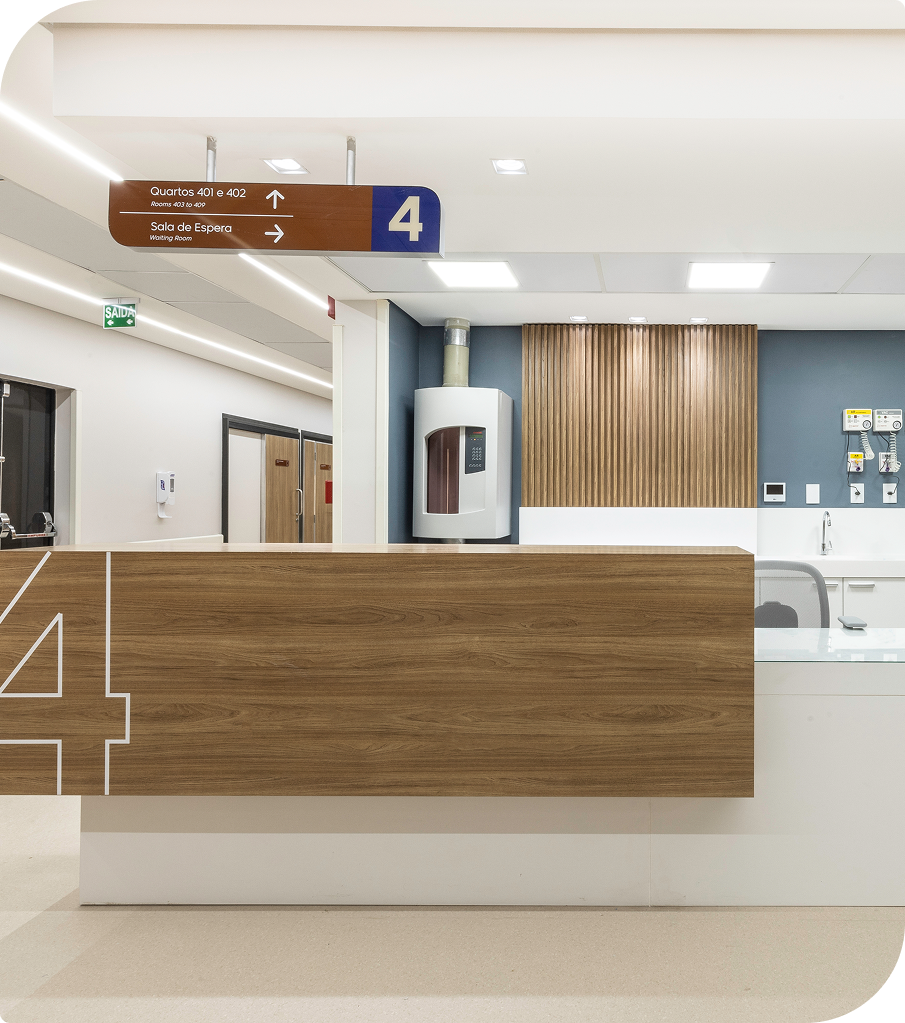
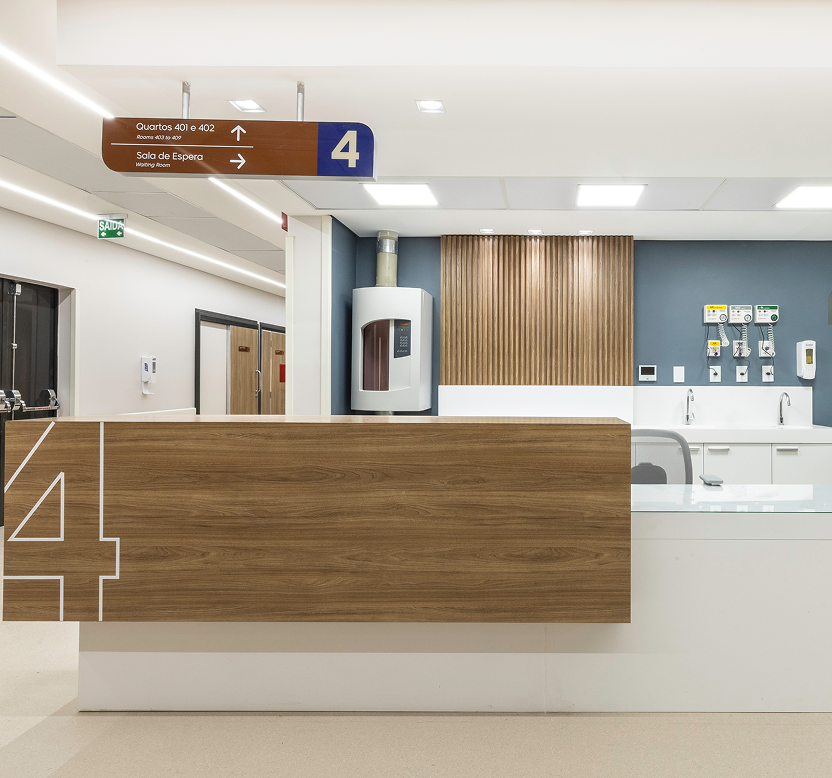
home & footer

diff --git a/styles.css b/styles.css
@@ -9,6 +9,7 @@
     --textColorClear:#FFFFFF;
     --titleSize: 2.5rem;
     --textSize: 1.2rem;
+    --textFooterSize: 0.8rem;
     --titleWeight: 400;
     --textWeight: 300;
     --btnFontSize: 1.5rem;
@@ -213,14 +214,12 @@ p {
 }
 
 
-
 .history-btn{
 
-    position:absolute;
-    top: 75rem;
-    left: 50%;
-    transform: translateX(-50%);
-
+    display: flex;
+    justify-content: center;
+    align-items: center;
+    margin: 3rem auto 0 auto;
     padding: 12px 24px;
     font-size: var(--btnFontSize);
     font-family: var(--titleFamily);
@@ -230,8 +229,6 @@ p {
     border-radius: 8px;
     cursor: pointer;
     text-decoration: none;
-
-    margin-top: 3rem;
     width: fit-content;
 
 }
@@ -272,7 +269,11 @@ p {
     background-size: cover;
     background-position: center;
     width: 100%;
-    /* height: 80rem; */
+    display: flex;
+    justify-content: center;
+    align-items: center;
+    flex-direction: column;
+    padding-bottom: 4rem;
 }
 
 .aside-title h1{
@@ -294,15 +295,107 @@ p {
     line-height: 1.5;
 }
 
-.aside-img img{
-    width: auto;
-    height: 30rem;
-    display: block;
-    object-fit: cover;
-    /* position: absolute;
-    align-items: center; */
-
+.aside-img .aside-vertical { 
+    display: none;
 }
+.aside-img .aside-horizontal { 
+    display: flex; 
+    border-radius: 100px 15px 100px 15px;
+}
+
+figcaption {
+    font-family: var(--titleFamily);
+    font-size: var(--figcaptionSize);
+    font-weight: var(--fiigCaptionWeight);
+    color: var(--textColorClear);
+    text-align: center;
+    margin-top: 1rem;
+    display: flex;
+    justify-content: center;
+}
+.tag {
+    margin-right: 0.3rem;}
+
+#second-img img{
+    width: 100%;
+    height: 100%;
+    display: block;
+    padding: 0 0 0 0;
+    object-fit: cover;
+}
+
+/* Footer */
+
+footer {
+    background-color: #D9D9D9;
+    width: 100%;
+    padding: 20px 40px;
+}
+
+.footer-container {
+    display: flex;
+    align-items: center;
+    width: 100%;
+}
+
+.footer-nav {
+    flex: 1;
+}
+
+.footer-nav ul {
+    list-style: none;
+    display: flex;
+    justify-content: center;
+    gap: 60px;
+    padding: 0;
+    margin: 0;
+}
+
+.footer-nav ul li a {
+    text-decoration: none;
+    color: #00152E;
+}
+
+.footer-nav ul li {
+    font-weight: 500;
+    color: #00152E;
+    font-size: var(--textFooterSize);
+    font-family: var(--textFamily);
+}
+
+.footer-nav ul li a:hover {
+    opacity: 0.7;
+}
+
+footer p {
+    color: #00152E;
+    font-size: 12px;
+    opacity: 0.7;
+    margin: 0;
+    margin-left: auto;
+    font-family: var(--textFamily);
+}
+
+/*Back to top btn*/
+
+.back-to-top{
+    position: fixed;
+    bottom: 3.5rem;
+    right: 3rem;
+    align-items: center;
+    justify-content: center;    
+    text-decoration: none; 
+    z-index: 9999;
+}
+
+.back-to-top span{
+    color: white;
+    font-size: 50px;
+    background-color: #423B2F;
+    border-radius: 50px;
+}
+
+
 
 
 /* Tablet (max-width: 1024px) */
@@ -359,19 +452,85 @@ p {
     }
 
     #first-img img{
-    height: 25rem;
-    display: block;
-    object-fit: cover;
+        height: 25rem;
+        display: block;
+        object-fit: cover;
+    }
+    .aside-img .aside-horizontal { 
+        display: none; 
+    }
+    .aside-img .aside-vertical { 
+        display: flex; 
+        border-radius: 100px 15px 100px 15px;
+        max-width: 48rem; 
+    }
+
+    /* Footer */
+
+    footer{
+        padding: 3rem 0 2rem 0;
+    }
+
+  .footer-container{
+        flex-direction: column;
+        justify-content: center;
+        align-items: center;
+        gap: 3rem;
+        text-align: center;
+    }
+
+  .footer-nav{
+        flex: unset;
+    }
+
+  .footer-nav ul{
+        flex-direction: column;
+        gap: 1.5rem;
+    }
+
+    footer p{
+        margin-left: 0; 
+
+    }
+
+    .back-to-top{
+        display: none;
+    }
+
+     .history-btn{
+        font-size: 1.3rem;
+        padding: 10px 20px;
+    }
+
+    .material-symbols-outlined{
+        font-size: 1.3rem;
+    }
+ 
+
 
 }
 
-
-}
 /* Mobile (max-width: 768px) */
 @media (max-width: 768px) {
     
     #element-img{
         display: none;
+    }
+
+    .aside-img .aside-vertical { 
+       padding: 0 2rem 0 2rem;
+       object-fit: cover;
+       max-width: 44rem;
+    }
+
+     .history-btn{
+        font-size: 1.1rem;
+        padding: 8px 16px;
+        margin: 2rem auto 0 auto;
+    }
+
+    .material-symbols-outlined{
+        font-size: 1.1rem;
     }
 
 }

diff --git a/index.html b/index.html
@@ -125,11 +125,12 @@
                     </div>
                     <div class="aside-img">
                         <figure class="projeto-figure">
-                            <img src="./images/aside-img.png" alt="Santa Tereza Hospital Project">
+                            <img src="./images/aside-img.png" class="aside-vertical" alt="Santa Tereza Hospital Project">
+                            <img src="./images/aside-img-hor.png" class="aside-horizontal" alt="Santa Tereza Hospital Project Horizontal">
 
                             <figcaption>
                                 <span class="tag">Enfermaria | </span>
-                                <b>Hospital e Maternidade Santa Tereza</b>
+                                <b> Hospital e Maternidade Santa Tereza</b>
                             </figcaption>
                         </figure>
                     </div>
@@ -141,7 +142,7 @@
                 
                 <!--Back to top button-->
                 <div class="back-to-top-container">
-                    <a href="#" class="back-to-top">
+                    <a href="#top" class="back-to-top">
                         <span class="material-symbols-outlined">arrow_circle_up</span>
                     </a>
                 </div>
@@ -152,8 +153,8 @@
                     <nav class="footer-nav" aria-label="Secondary navigation">
                         <ul>
                             <li><a href="#">FAQ</a></li>
-                            <li><a href="#">Termos e Condições</a></li>
                             <li><a href="#">Fale conosco</a></li>
+                            <li><a href="#">Termos e Condições</a></li>
                             <li><a href="#">Privacidade & Cookies</a></li>
                         </ul>
                     </nav>
